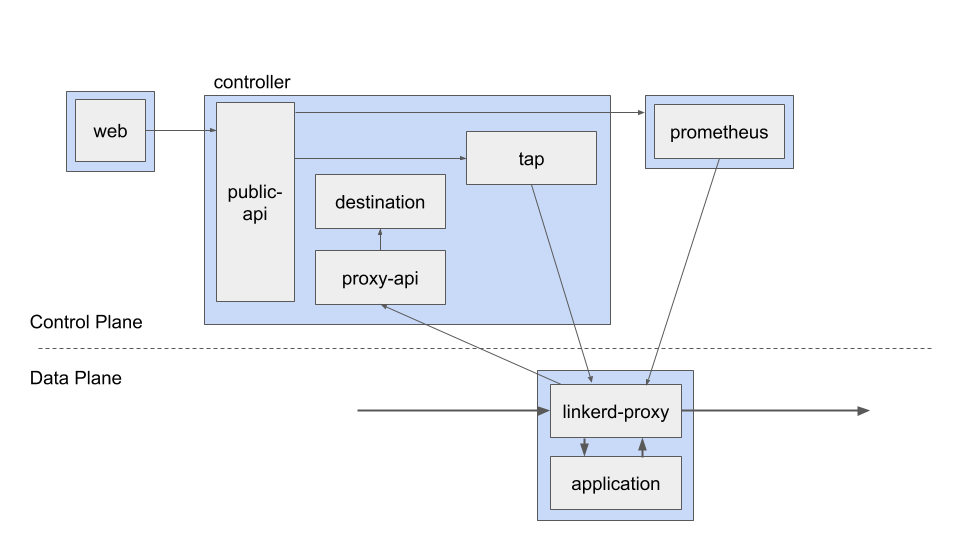
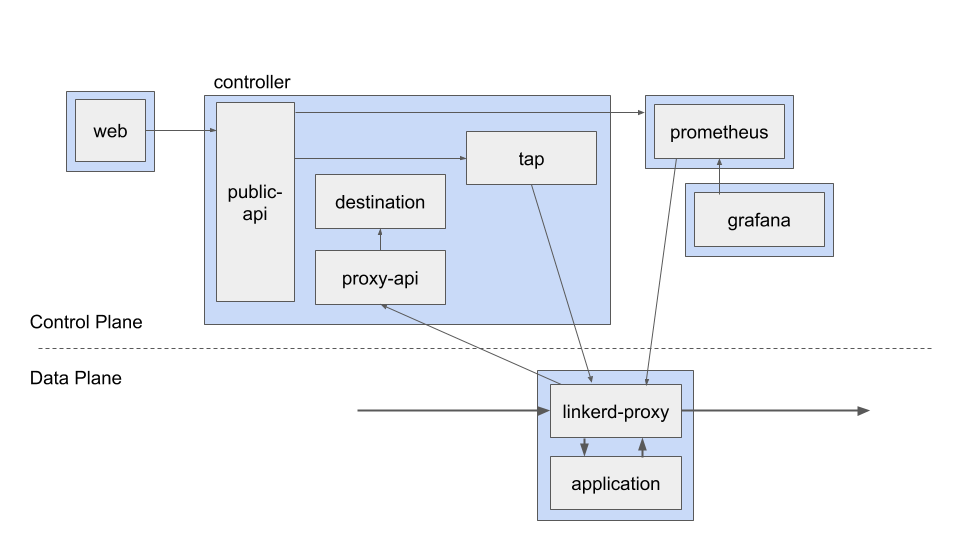
Misc small doc fixes (#32)
* Fix broken links
* Consistent title casing
* Update architecture diagram

Changed region(s): [[0.6875, 0.3259, 0.875, 0.5037], [0.6562, 0.6519, 0.6875, 0.6815]]

diff --git a/linkerd.io/content/2/upgrade/_index.md b/linkerd.io/content/2/upgrade/_index.md
@@ -12,7 +12,7 @@ There are three components that need to be upgraded:
 - [Control Plane](/2/architecture#control-plane)
 - [Data Plane](/2/architecture#data-plane)
 
-In this guide, we'll walk you through how to upgrade all three compnents
+In this guide, we'll walk you through how to upgrade all three components
 incrementally without taking down any of your services.
 
 ## Upgrade the CLI
@@ -23,34 +23,11 @@ these instructions for anywhere that uses the linkerd CLI.
 To upgrade the CLI locally, run:
 
 ```bash
-curl https://run.linkerd.io/install | sh
-```
-
-Which should display:
-
-```txt
-Downloading linkerd2-cli-{{% latestversion %}}-darwin...
-Linkerd was successfully installed 🎉
-
-Add the linkerd CLI to your path with:
-
-    export PATH=$PATH:$HOME/.linkerd2/bin
-
-Then run:
-
-    linkerd install | kubectl apply -f -
-
-to deploy Linkerd to Kubernetes. Once deployed, run:
-
-    linkerd dashboard
-
-to view the Linkerd UI.
-
-Visit linkerd.io/2/getting-started for more information.
+curl -sL https://run.linkerd.io/install | sh
 ```
 
 Alternatively, you can download the CLI directly via the
-[Linkerd releases page](https://github.com/linkerd/linkerd2/releases/v{{% latestversion %}}).
+[Linkerd releases page](https://github.com/linkerd/linkerd2/releases/).
 
 Verify the CLI is installed and running correctly with:
 
@@ -61,7 +38,7 @@ linkerd version
 Which should display:
 
 ```bash
-Client version: v{{% latestversion %}}
+Client version: {{% latestversion %}}
 Server version: v18.8.1
 ```
 
@@ -129,8 +106,8 @@ linkerd version
 Which should display:
 
 ```txt
-Client version: v{{% latestversion %}}
-Server version: v{{% latestversion %}}
+Client version: {{% latestversion %}}
+Server version: {{% latestversion %}}
 ```
 
 ### Notes
@@ -179,8 +156,8 @@ kubectl get po --all-namespaces -o yaml \
 The output will look something like:
 
 ```txt
-linkerd.io/proxy-version: v{{% latestversion %}}
-linkerd.io/proxy-version: v{{% latestversion %}}
+linkerd.io/proxy-version: {{% latestversion %}}
+linkerd.io/proxy-version: {{% latestversion %}}
 ```
 
 If there are any older versions listed, you will want to upgrade them as well.

diff --git a/linkerd.io/content/2/observability/proxy-metrics.md b/linkerd.io/content/2/observability/proxy-metrics.md
@@ -32,7 +32,7 @@ port (default: `:4191`) in the [Prometheus format][prom-format]:
 
 Note that latency measurements are not exported to Prometheus until the stream
 _completes_. This is necessary so that latencies can be labeled with the appropriate
-[response classification](#rsp-class).
+[response classification](#response-labels).
 
 ## Labels
 

diff --git a/linkerd.io/content/2/observability/prometheus.md b/linkerd.io/content/2/observability/prometheus.md
@@ -76,4 +76,4 @@ Linkerd's proxy metrics will have the label `job="linkerd-proxy"`.  Linkerd's
 control-plane metrics will have the label `job="linkerd-controller"`.
 
 For more information on specific metric and label definitions, have a look at
-[Proxy Metrics](/proxy-metrics),
+[Proxy Metrics](../proxy-metrics).

diff --git a/linkerd.io/content/2/automatic-tls/_index.md b/linkerd.io/content/2/automatic-tls/_index.md
@@ -1,6 +1,6 @@
 +++
 date = "2018-07-31T12:00:00-07:00"
-title = "Experimental: automatic TLS"
+title = "Experimental: Automatic TLS"
 [menu.l5d2docs]
   name = "Experimental: Automatic TLS"
   weight = 11

diff --git a/linkerd.io/content/2/adding-your-service/_index.md b/linkerd.io/content/2/adding-your-service/_index.md
@@ -1,6 +1,6 @@
 +++
 date = "2018-07-31T12:00:00-07:00"
-title = "Adding your service"
+title = "Adding Your Service"
 [menu.l5d2docs]
   name = "Adding Your Service"
   weight = 6

diff --git a/linkerd.io/content/2/getting-started/_index.md b/linkerd.io/content/2/getting-started/_index.md
@@ -1,6 +1,6 @@
 +++
 date = "2018-07-31T12:00:00-07:00"
-title = "Getting started"
+title = "Getting Started"
 [menu.l5d2docs]
   name = "Getting Started"
   weight = 3

diff --git a/linkerd.io/content/2/get-involved/_index.md b/linkerd.io/content/2/get-involved/_index.md
@@ -1,6 +1,6 @@
 +++
 date = "2018-07-31T12:00:00-07:00"
-title = "Get involved"
+title = "Get Involved"
 [menu.l5d2docs]
   name = "Get Involved"
   weight = 12
